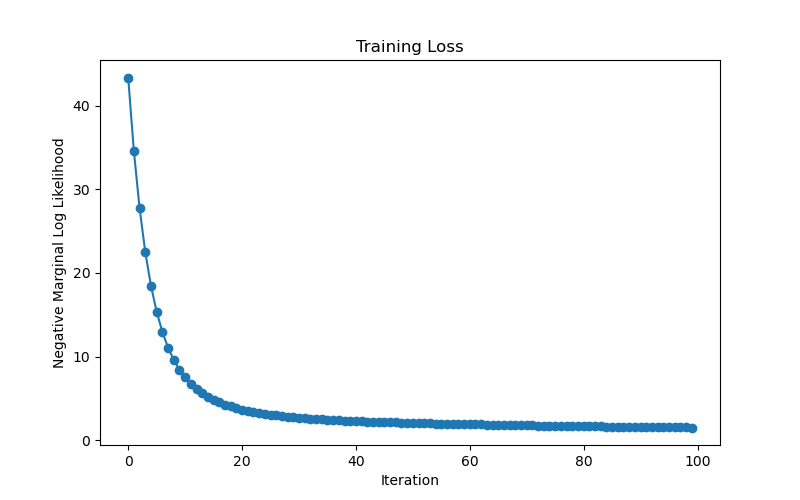
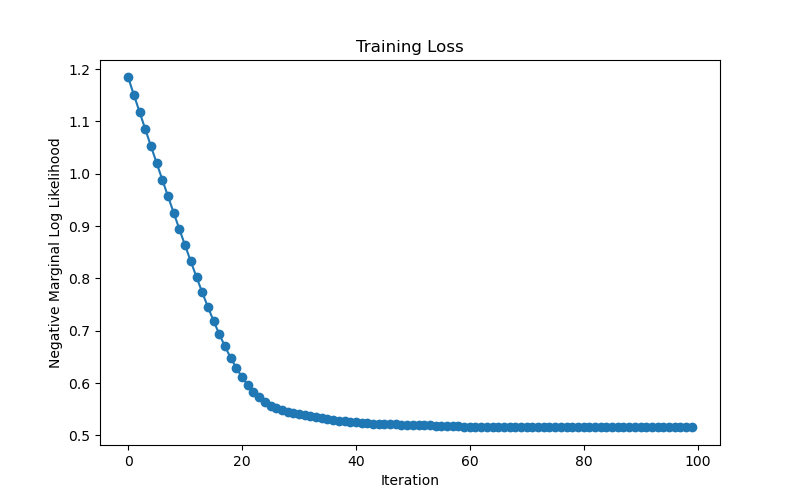
first trained model

diff --git a/train.py b/train.py
@@ -2,6 +2,8 @@
 import os
 import glob
 import argparse
+import joblib
+import numpy as np
 import pandas as pd
 from sklearn.model_selection import train_test_split
 from sklearn.preprocessing import StandardScaler
@@ -15,15 +17,13 @@ class MultitaskGPModel(gpytorch.models.ExactGP):
     def __init__(self, train_x, train_y, likelihood, num_tasks):
         super(MultitaskGPModel, self).__init__(train_x, train_y, likelihood)
         self.num_tasks = num_tasks
-        # Use a multitask mean module; here we use a constant mean for each task.
         self.mean_module = gpytorch.means.MultitaskMean(
             gpytorch.means.ConstantMean(), num_tasks=num_tasks
         )
-        # Use a multitask kernel. We use an RBF kernel shared across tasks with a rank-1 coregionalization.
         self.covar_module = gpytorch.kernels.MultitaskKernel(
             gpytorch.kernels.RBFKernel(), num_tasks=num_tasks, rank=1
         )
-
+    
     def forward(self, x):
         mean_x = self.mean_module(x)
         covar_x = self.covar_module(x)
@@ -32,10 +32,9 @@ class MultitaskGPModel(gpytorch.models.ExactGP):
 def load_data(csv_path):
     """
     Load the CSV file, drop rows with missing values, and compute the differences between tip and base coordinates.
-    
-    The CSV is expected to have the following columns:
-    timestamp, volume_1, volume_2, volume_3, pressure_1, pressure_2, pressure_3,
-    img_left, img_right, tip_x, tip_y, tip_z, base_x, base_y, base_z.
+    Expected CSV columns:
+      timestamp, volume_1, volume_2, volume_3, pressure_1, pressure_2, pressure_3,
+      img_left, img_right, tip_x, tip_y, tip_z, base_x, base_y, base_z.
     """
     df = pd.read_csv(csv_path)
     initial_rows = len(df)
@@ -51,44 +50,51 @@ def load_data(csv_path):
     
     # Input features: [dx, dy, dz]
     X = df[['dx', 'dy', 'dz']].values
-    # Outputs: volumes and pressures (6 outputs)
+    # Outputs: volumes and pressures
     y = df[['volume_1', 'volume_2', 'volume_3', 'pressure_1', 'pressure_2', 'pressure_3']].values
+    
     return X, y
 
 def main():
-    parser = argparse.ArgumentParser(description="Train multi-task GP model using GPyTorch for Soft Continuum Robot data")
+    parser = argparse.ArgumentParser(
+        description="Train multi-task GP model using GPyTorch for Soft Continuum Robot data"
+    )
     parser.add_argument("--experiment_folder", type=str, required=True, help="Path to the data folder")
     parser.add_argument("--test_size", type=float, default=0.2, help="Proportion of the dataset to use as test set")
     parser.add_argument("--training_iterations", type=int, default=100, help="Number of training iterations")
     args = parser.parse_args()
     
-    # Look for CSV file(s) starting with 'output' in the experiment folder
+    # Find CSV file(s) starting with 'output' in the experiment folder
     csv_files = glob.glob(os.path.join(args.experiment_folder, "output*.csv"))
     if not csv_files:
         raise FileNotFoundError("No CSV file starting with 'output' found in the experiment folder.")
     csv_path = csv_files[0]
     
-    # Load data and split into train/test sets
+    # Load data
     X, y = load_data(csv_path)
+    
+    # Split into training and testing sets
     X_train, X_test, y_train, y_test = train_test_split(X, y, test_size=args.test_size, random_state=42)
     
-    # Scale inputs using StandardScaler for better numerical stability
-    scaler = StandardScaler()
-    X_train_scaled = scaler.fit_transform(X_train)
-    X_test_scaled = scaler.transform(X_test)
+    # Scale inputs and outputs
+    input_scaler = StandardScaler()
+    X_train_scaled = input_scaler.fit_transform(X_train)
+    X_test_scaled = input_scaler.transform(X_test)
+    
+    output_scaler = StandardScaler()
+    y_train_scaled = output_scaler.fit_transform(y_train)
+    y_test_scaled = output_scaler.transform(y_test)
     
     # Convert data to torch tensors
     train_x = torch.tensor(X_train_scaled, dtype=torch.float32)
-    # For multitask GP in GPyTorch, training labels should be of shape (n_samples, num_tasks)
-    train_y = torch.tensor(y_train, dtype=torch.float32)
+    train_y = torch.tensor(y_train_scaled, dtype=torch.float32)
     test_x = torch.tensor(X_test_scaled, dtype=torch.float32)
-    test_y = torch.tensor(y_test, dtype=torch.float32)
+    test_y = torch.tensor(y_test_scaled, dtype=torch.float32)
     
-    num_tasks = train_y.shape[1]  # 6 outputs
+    num_tasks = train_y.shape[1]  # Should be 6 (3 volumes, 3 pressures)
     
-    # Use a multitask Gaussian likelihood
+    # Set up likelihood and model
     likelihood = gpytorch.likelihoods.MultitaskGaussianLikelihood(num_tasks=num_tasks)
-    # Initialize our model
     model = MultitaskGPModel(train_x, train_y, likelihood, num_tasks=num_tasks)
     
     model.train()
@@ -120,29 +126,26 @@ def main():
     plt.close()
     print(f"Training loss plot saved to {loss_plot_path}")
     
-    # Switch to evaluation mode
+    # Evaluate on test set (inverse-transform predictions to original scale)
     model.eval()
     likelihood.eval()
-    
     with torch.no_grad(), gpytorch.settings.fast_pred_var():
         predictions = likelihood(model(test_x))
-        pred_means = predictions.mean  # shape: (n_test, num_tasks)
-        mse = torch.mean((pred_means - test_y) ** 2)
-        print(f"Test Mean Squared Error: {mse.item():.4f}")
+        pred_means_scaled = predictions.mean  # shape: (n_test, num_tasks)
+        # Inverse transform predictions and test labels to original scale
+        pred_means = output_scaler.inverse_transform(pred_means_scaled.cpu().numpy())
+        test_y_orig = output_scaler.inverse_transform(test_y.cpu().numpy())
+        mse = ((pred_means - test_y_orig) ** 2).mean()
+        print(f"Test Mean Squared Error: {mse:.4f}")
     
-    # Convert predictions and test labels to numpy arrays for plotting
-    pred_means_np = pred_means.cpu().numpy()
-    test_y_np = test_y.cpu().numpy()
-    
-    # Create scatter plots for predicted vs. actual values for each output
+    # Create scatter plots for predicted vs. actual (original scale)
     fig, axs = plt.subplots(2, 3, figsize=(15, 10))
     axs = axs.flatten()
     task_names = ["Volume 1", "Volume 2", "Volume 3", "Pressure 1", "Pressure 2", "Pressure 3"]
     for i in range(num_tasks):
-        axs[i].scatter(test_y_np[:, i], pred_means_np[:, i], alpha=0.7)
-        # Compute combined min and max for the axis limits
-        min_val = min(test_y_np[:, i].min(), pred_means_np[:, i].min())
-        max_val = max(test_y_np[:, i].max(), pred_means_np[:, i].max())
+        axs[i].scatter(test_y_orig[:, i], pred_means[:, i], alpha=0.7)
+        min_val = min(test_y_orig[:, i].min(), pred_means[:, i].min())
+        max_val = max(test_y_orig[:, i].max(), pred_means[:, i].max())
         axs[i].plot([min_val, max_val], [min_val, max_val], 'r--')
         axs[i].set_xlim([min_val, max_val])
         axs[i].set_ylim([min_val, max_val])
@@ -153,16 +156,17 @@ def main():
     scatter_plot_path = os.path.join(args.experiment_folder, "predicted_vs_actual.png")
     plt.savefig(scatter_plot_path)
     plt.close()
-    print(f"Predicted vs. Actual plot saved to {scatter_plot_path}")
+    print(f"Predicted vs Actual plot saved to {scatter_plot_path}")
     
-    # Save the trained model state and scaler for later use
+    # Save the trained model state and both scalers for later use
     model_out = os.path.join(args.experiment_folder, "gpytorch_model.pth")
     torch.save({
         "model_state_dict": model.state_dict(),
         "likelihood_state_dict": likelihood.state_dict(),
-        "scaler": scaler,
+        "scaler": input_scaler,
+        "output_scaler": output_scaler,
     }, model_out)
-    print(f"Trained model and scaler saved to {model_out}")
+    print(f"Trained model and scalers saved to {model_out}")
 
 if __name__ == "__main__":
     main()

diff --git a/move.py b/move.py
@@ -1,0 +1,110 @@
+#!/usr/bin/env python
+import argparse
+import torch
+import gpytorch
+import numpy as np
+from sklearn.preprocessing._data import StandardScaler
+
+# Define the same multitask GP model as in training
+class MultitaskGPModel(gpytorch.models.ExactGP):
+    def __init__(self, train_x, train_y, likelihood, num_tasks):
+        super(MultitaskGPModel, self).__init__(train_x, train_y, likelihood)
+        self.num_tasks = num_tasks
+        self.mean_module = gpytorch.means.MultitaskMean(
+            gpytorch.means.ConstantMean(), num_tasks=num_tasks
+        )
+        self.covar_module = gpytorch.kernels.MultitaskKernel(
+            gpytorch.kernels.RBFKernel(), num_tasks=num_tasks, rank=1
+        )
+    
+    def forward(self, x):
+        mean_x = self.mean_module(x)
+        covar_x = self.covar_module(x)
+        return gpytorch.distributions.MultitaskMultivariateNormal(mean_x, covar_x)
+
+def load_model(model_path):
+    """
+    Loads the saved model, likelihood, input scaler, and (optionally) the output scaler.
+    We force a full checkpoint load (weights_only=False) so that the saved scalers are loaded.
+    """
+    checkpoint = torch.load(model_path, map_location=torch.device('cpu'), weights_only=False)
+    input_scaler = checkpoint['scaler']
+    # Load the output scaler if it was saved; otherwise, outputs will be unscaled.
+    output_scaler = checkpoint.get('output_scaler', None)
+    num_tasks = 6  # for our problem: 3 volumes and 3 pressures
+
+    # Create dummy training data (values don't matter here)
+    dummy_train_x = torch.zeros(1, 3)
+    dummy_train_y = torch.zeros(1, num_tasks)
+    
+    likelihood = gpytorch.likelihoods.MultitaskGaussianLikelihood(num_tasks=num_tasks)
+    model = MultitaskGPModel(dummy_train_x, dummy_train_y, likelihood, num_tasks=num_tasks)
+    
+    # Load saved state dictionaries
+    model.load_state_dict(checkpoint["model_state_dict"])
+    likelihood.load_state_dict(checkpoint["likelihood_state_dict"])
+    
+    model.eval()
+    likelihood.eval()
+    return model, likelihood, input_scaler, output_scaler
+
+def main():
+    parser = argparse.ArgumentParser(
+        description="Predict pressures and volumes using a trained GPyTorch model"
+    )
+    parser.add_argument("--model_path", type=str, required=True,
+                        help="Path to the saved model file (e.g. gpytorch_model.pth)")
+    args = parser.parse_args()
+    
+    # Load the model, likelihood, and scalers
+    model, likelihood, input_scaler, output_scaler = load_model(args.model_path)
+    
+    # Ask the user for desired coordinates (difference between tip and base)
+    print("Enter desired coordinates (difference between tip and base):")
+    try:
+        dx = float(input("dx: "))
+        dy = float(input("dy: "))
+        dz = float(input("dz: "))
+    except ValueError:
+        print("Invalid input. Please enter numeric values.")
+        return
+    
+    # Scale the input using the loaded input scaler
+    input_array = np.array([[dx, dy, dz]])
+    input_scaled = input_scaler.transform(input_array)
+    input_tensor = torch.tensor(input_scaled, dtype=torch.float32)
+    
+    # Predict using the trained model
+    with torch.no_grad(), gpytorch.settings.fast_pred_var():
+        prediction = likelihood(model(input_tensor))
+        pred_means = prediction.mean  # shape: (1, num_tasks)
+    
+    pred_means_np = pred_means.cpu().numpy()  # shape: (1,6)
+    
+    # If an output scaler was saved, inverse transform the predictions
+    if output_scaler is not None:
+        pred_unscaled = output_scaler.inverse_transform(pred_means_np)
+    else:
+        pred_unscaled = pred_means_np
+    
+    pred_unscaled = pred_unscaled.flatten()
+    
+    # Display the predictions
+    print("\nPredicted Values:")
+    print(f"Volume 1:   {pred_unscaled[0]:.3f}")
+    print(f"Volume 2:   {pred_unscaled[1]:.3f}")
+    print(f"Volume 3:   {pred_unscaled[2]:.3f}")
+    print(f"Pressure 1: {pred_unscaled[3]:.3f}")
+    print(f"Pressure 2: {pred_unscaled[4]:.3f}")
+    print(f"Pressure 3: {pred_unscaled[5]:.3f}")
+
+if __name__ == "__main__":
+    main()
+
+
+    """
+    tip : 8.227515,4.108507,-9.315143
+    base : 8.092597,3.4163816,-7.492409
+    difference : 0.134918  ,  0.6921253  ,  -1.8227334
+
+    """
